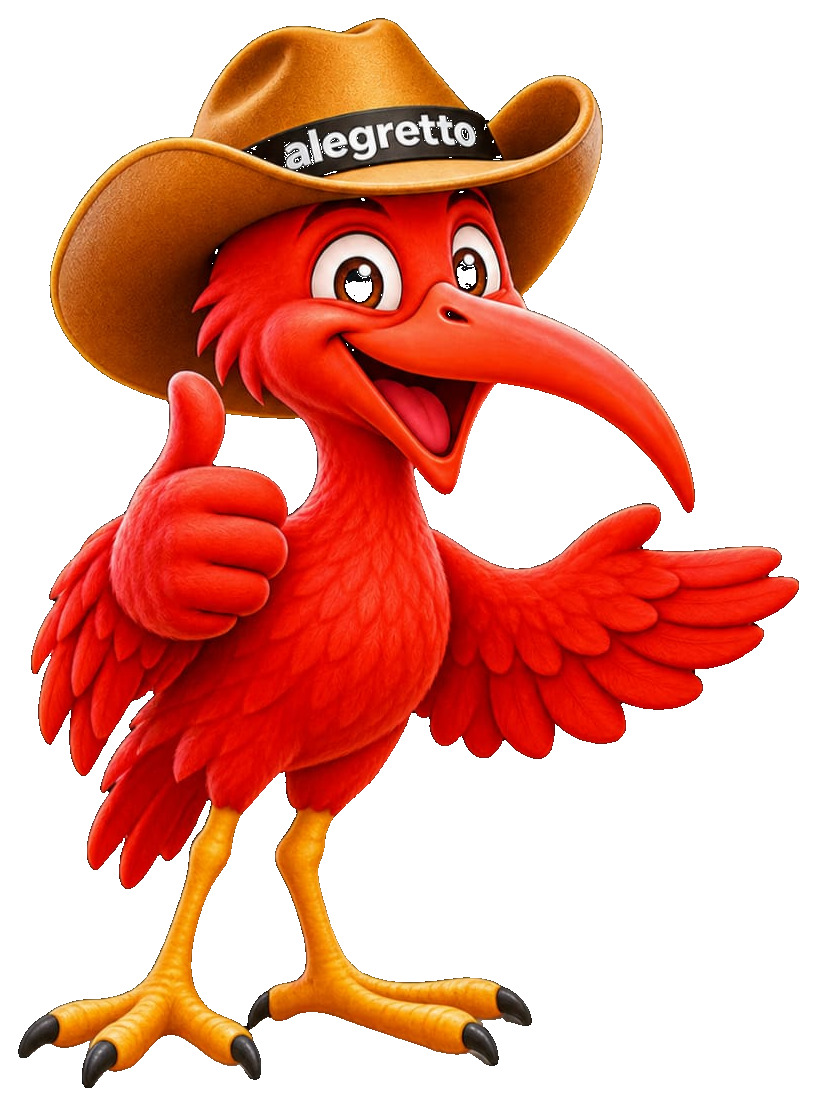
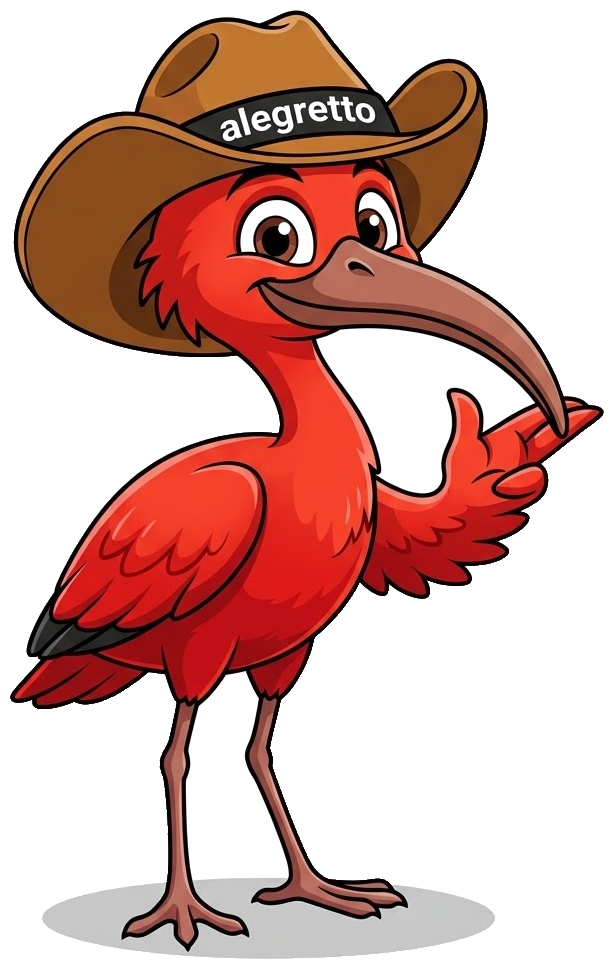
feat: Guará flat de chapéu na animação de abertura
Troca o mascote 3D pelo ilustrado limpo com chapéu alegretto.
Cache v=3 e SW v62.

diff --git a/app/splash.tsx b/app/splash.tsx
@@ -29,7 +29,7 @@ export function SplashScreen({ onWarm, onDone }: { onWarm?: () => void; onDone: 
     const warm = () => {
       if (warmRef.current) return;
       warmRef.current = true;
-      for (const src of ["/guara/chapeu-alegretto.webp?v=2", "/pins/guara-mascot.webp", "/guara.png?v=3"]) {
+      for (const src of ["/guara/chapeu-alegretto.webp?v=3", "/pins/guara-mascot.webp", "/guara.png?v=3"]) {
         const img = new Image();
         img.decoding = "async";
         img.src = src;
@@ -90,10 +90,10 @@ export function SplashScreen({ onWarm, onDone }: { onWarm?: () => void; onDone: 
           {/* eslint-disable-next-line @next/next/no-img-element */}
           <img
             className="sx-bird-img"
-            src="/guara/chapeu-alegretto.webp?v=2"
+            src="/guara/chapeu-alegretto.webp?v=3"
             alt=""
-            width={939}
-            height={1115}
+            width={621}
+            height={975}
             decoding="async"
             draggable={false}
           />

diff --git a/app/layout.tsx b/app/layout.tsx
@@ -65,7 +65,7 @@ export default function RootLayout({
     <html lang="pt-BR">
       <head>
         <link rel="preload" href="/logo-splash.png" as="image" type="image/png" />
-        <link rel="preload" href="/guara/chapeu-alegretto.webp?v=2" as="image" type="image/webp" />
+        <link rel="preload" href="/guara/chapeu-alegretto.webp?v=3" as="image" type="image/webp" />
         <link rel="preload" href="/pins/guara-mascot.webp" as="image" type="image/webp" />
         <link rel="preload" href="/guara-inteiro.png?v=1" as="image" type="image/png" />
         <link rel="preload" href="/guara/busca.webp" as="image" type="image/webp" />

diff --git a/app/globals.css b/app/globals.css
@@ -1379,8 +1379,8 @@ html[data-sky="night"] .sky-sun-wrap {
 }
 
 .sx-bird {
-  /* Guará de chapéu — um pouco maior pra ler "alegretto" no chapéu */
-  width: min(52vw, 228px);
+  /* Guará flat de chapéu — proporção mais alta */
+  width: min(48vw, 210px);
   will-change: transform, opacity;
 }
 

diff --git a/public/sw.js b/public/sw.js
@@ -1,4 +1,4 @@
-const CACHE = "praia-alerta-v61";
+const CACHE = "praia-alerta-v62";
 const PRECACHE = [
   "/",
   "/logo.png",
